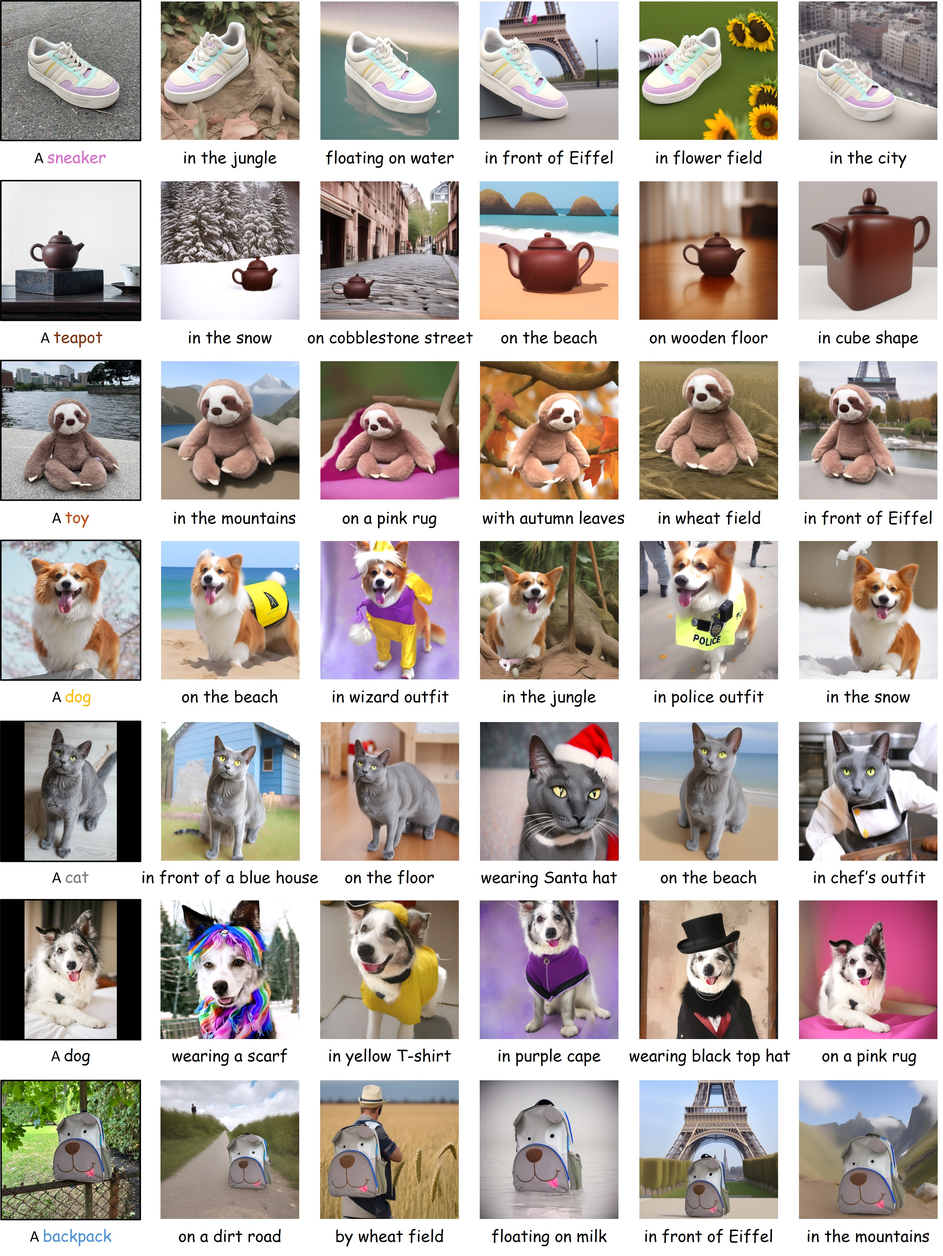
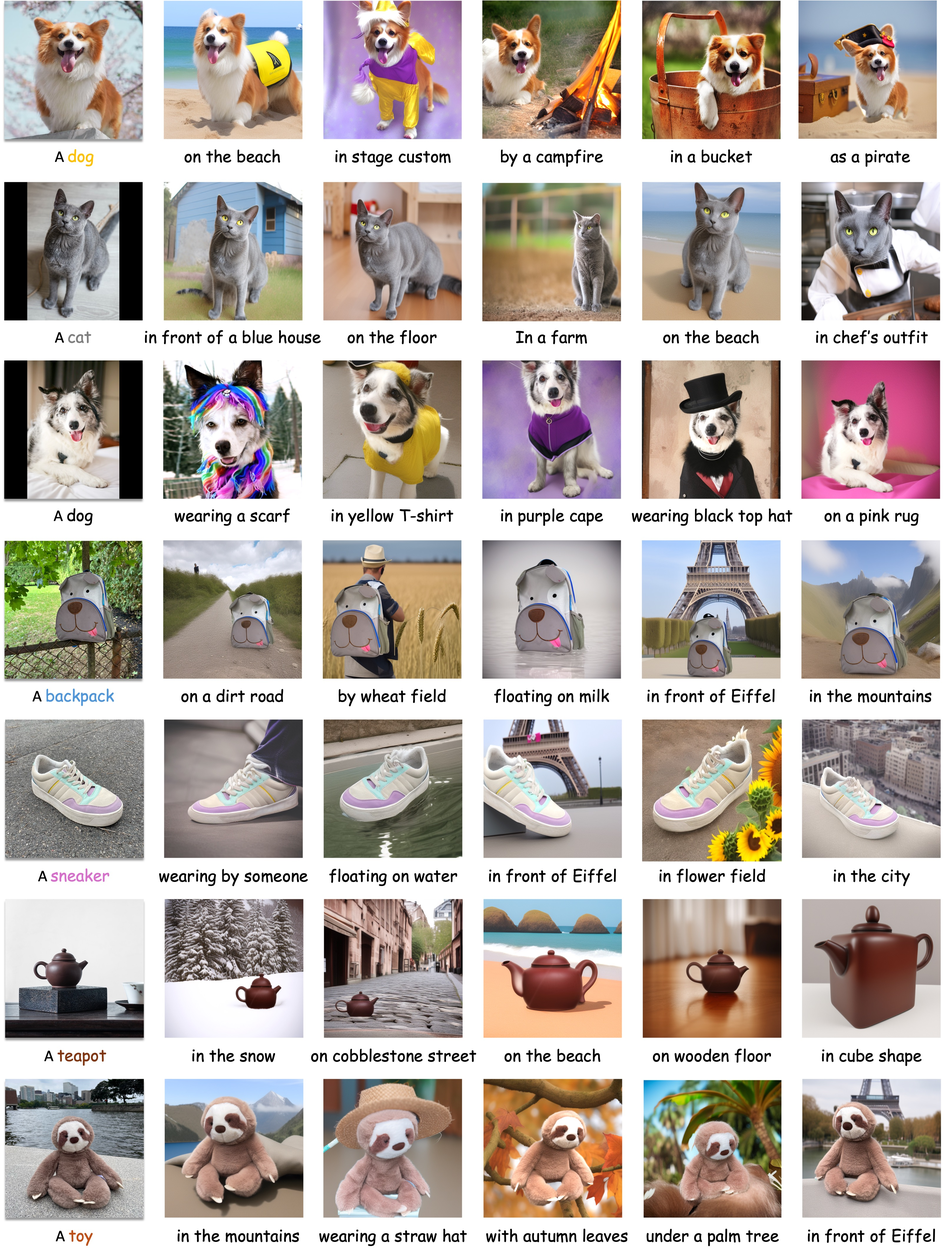
Updates

diff --git a/pages/EZIGen/index.html b/pages/EZIGen/index.html
@@ -3,7 +3,7 @@
 <head>
   <meta charset="utf-8">
   <meta name="description"
-        content="EZIGen: Enhancing zero-shot subject-driven image generation with precise encoding and decoupled guidance">
+        content="EZIGen: Enhancing zero-shot personalized image generation with precise encoding and decoupled guidance">
   <meta name="keywords" content="Nerfies, D-NeRF, NeRF">
   <meta name="viewport" content="width=device-width, initial-scale=1">
   <title>EZIGen Demo</title>
@@ -69,7 +69,7 @@
     <div class="container is-max-desktop">
       <div class="columns is-centered">
         <div class="column has-text-centered">
-          <h2 class="title is-2 publication-title" style="margin-top: 0; margin-bottom: 0; margin-left: 0; margin-right: 0">EZIGen: Enhancing zero-shot subject-driven image generation with precise subject encoding and decoupled guidance</h2>
+          <h2 class="title is-2 publication-title" style="margin-top: 0; margin-bottom: 0; margin-left: 0; margin-right: 0">EZIGen: Enhancing zero-shot personalized image generation with precise subject encoding and decoupled guidance</h2>
           <h2 class="title is-2 publication-title" style="margin-top: 0"></h2>
           <h2 class="title is-4 publication-title" style="color:#6e6e6e;margin-top: 2; margin-bottom: 2">arXiv preprint</h2>
 
@@ -121,7 +121,7 @@
                   <span class="icon">
                       <svg class="svg-inline--fa fa-github fa-w-16 fa-lg" aria-hidden="true" focusable="false" data-prefix="fab" data-icon="github" role="img" xmlns="http://www.w3.org/2000/svg" viewBox="0 0 496 512" data-fa-i2svg=""><path fill="currentColor" d="M165.9 397.4c0 2-2.3 3.6-5.2 3.6-3.3.3-5.6-1.3-5.6-3.6 0-2 2.3-3.6 5.2-3.6 3-.3 5.6 1.3 5.6 3.6zm-31.1-4.5c-.7 2 1.3 4.3 4.3 4.9 2.6 1 5.6 0 6.2-2s-1.3-4.3-4.3-5.2c-2.6-.7-5.5.3-6.2 2.3zm44.2-1.7c-2.9.7-4.9 2.6-4.6 4.9.3 2 2.9 3.3 5.9 2.6 2.9-.7 4.9-2.6 4.6-4.6-.3-1.9-3-3.2-5.9-2.9zM244.8 8C106.1 8 0 113.3 0 252c0 110.9 69.8 205.8 169.5 239.2 12.8 2.3 17.3-5.6 17.3-12.1 0-6.2-.3-40.4-.3-61.4 0 0-70 15-84.7-29.8 0 0-11.4-29.1-27.8-36.6 0 0-22.9-15.7 1.6-15.4 0 0 24.9 2 38.6 25.8 21.9 38.6 58.6 27.5 72.9 20.9 2.3-16 8.8-27.1 16-33.7-55.9-6.2-112.3-14.3-112.3-110.5 0-27.5 7.6-41.3 23.6-58.9-2.6-6.5-11.1-33.3 2.6-67.9 20.9-6.5 69 27 69 27 20-5.6 41.5-8.5 62.8-8.5s42.8 2.9 62.8 8.5c0 0 48.1-33.6 69-27 13.7 34.7 5.2 61.4 2.6 67.9 16 17.7 25.8 31.5 25.8 58.9 0 96.5-58.9 104.2-114.8 110.5 9.2 7.9 17 22.9 17 46.4 0 33.7-.3 75.4-.3 83.6 0 6.5 4.6 14.4 17.3 12.1C428.2 457.8 496 362.9 496 252 496 113.3 383.5 8 244.8 8zM97.2 352.9c-1.3 1-1 3.3.7 5.2 1.6 1.6 3.9 2.3 5.2 1 1.3-1 1-3.3-.7-5.2-1.6-1.6-3.9-2.3-5.2-1zm-10.8-8.1c-.7 1.3.3 2.9 2.3 3.9 1.6 1 3.6.7 4.3-.7.7-1.3-.3-2.9-2.3-3.9-2-.6-3.6-.3-4.3.7zm32.4 35.6c-1.6 1.3-1 4.3 1.3 6.2 2.3 2.3 5.2 2.6 6.5 1 1.3-1.3.7-4.3-1.3-6.2-2.2-2.3-5.2-2.6-6.5-1zm-11.4-14.7c-1.6 1-1.6 3.6 0 5.9 1.6 2.3 4.3 3.3 5.6 2.3 1.6-1.3 1.6-3.9 0-6.2-1.4-2.3-4-3.3-5.6-2z"></path></svg>
                   </span>
-                  <span>GitHub Repo (<strong style="color: red;">New!</strong>)</span>
+                  <span>Code (<strong style="color: red;">Training code released!</strong>)</span>
                   </a>
               </span>
             </div>
@@ -188,7 +188,7 @@
       <div class="column is-four-fifths">
         <h2 class="title is-3">Abstract</h2>
         <div class="content has-text-justified">
-          Zero-shot subject-driven image generation aims to produce images that incorporate a subject from a given example image. The challenge lies in preserving the subject's identity while aligning with the text prompt that often requires modifying certain aspects of the subject's appearance. Despite advancements in diffusion model based methods, existing approaches still struggle to balance identity preservation with text prompt alignment. In this study, we conducted an in-depth investigation into this issue and uncovered key insights for achieving effective identity preservation while maintaining a strong balance. Our key findings include: (1) the design of the subject image encoder significantly impacts identity preservation quality, and (2) separating text and subject guidance is crucial for both text alignment and identity preservation. Building on these insights, we introduce a new approach called EZIGen, which employs two main strategies: a carefully crafted subject image Encoder based on the pretrained UNet of the Stable Diffusion model to ensure high-quality identity transfer, following a process that decouples the guidance stages and iteratively refines the initial image layout. Through these strategies, EZIGen achieves state-of-the-art results on multiple subject-driven benchmarks with a unified model and 100 times less training data. 
+          Zero-shot personalized image generation models aim to produce images that align with both a given text prompt and subject image, requiring the model to effectively incorporate both sources of guidance. However, existing methods often struggle to capture fine-grained subject details and frequently prioritize one form of guidance over the other, resulting in suboptimal subject encoding and an imbalance in the generated images. In this study, we uncover key insights into achieving high-quality balances on subject identity preservation and text-following, notably that 1) the design of the subject image encoder critically influences subject identity preservation, and 2) the text and subject guidance should take effect at different denoising stages. Building on these insights, we introduce a new approach, EZIGen, that employs two main components: a carefully crafted subject image encoder based on the pretrained UNet of the Stable Diffusion model, following a process that balances the two guidances by separating their dominance stage and revisiting certain time steps to bootstrap subject transfer quality. Through these two components, EZIGen achieves state-of-the-art results on multiple personalized generation benchmarks with a unified model and 100 times less training data.
           </p>
         </div>
       </div>
@@ -206,7 +206,7 @@
           <h2 class="title is-3">Method</h2>
         </div>
         <div style="text-align: center;">
-          <img src="static/images/main3.png"
+          <img src="static/images/main4.jpg"
           class="body"
           alt="Interpolate start reference image. " width="100%"/>
         </div>
@@ -228,7 +228,7 @@
         <h2 class="title is-3">Comparisons</h2>
       </div>
       
-      <p>We conduct in-depth comparisons of our method against previous literatures on various tasks: namely subject-driven image generation, subject-driven image editing and human content generation task.</p>
+      <p>We conduct in-depth comparisons of our method against previous literatures on various tasks: namely personalized image generation, personalized image editing and human content generation task.</p>
     </div>
     </div>
     </div>
@@ -243,7 +243,7 @@
         <div class="content">
           <h3 class="title is-4">Results on DreamBench dataset </h3>
           <div style="text-align: center;">
-            <img src="static/images/qualitative_comparison.jpg"
+            <img src="static/images/qualitative_comparison.png"
             class="body"
             alt="Interpolate start reference image. " width="100%"/>
           </div>
@@ -332,21 +332,21 @@
       <div class="column">
         <div class="content">
           <div style="text-align: center;"><h2 class="title is-3">More Visualization Results</h2></div>
-          <h3 class="title is-4">Subject-Driven Generation</h2>
+          <h3 class="title is-4">Personalized Image Generation</h2>
             <img src="static/images/more_results.jpg"
             class="body"
             alt="Interpolate start reference image." width="100%"/>
 
-          <h3 class="title is-4">Subject-Driven Editing</h2>
+          <h3 class="title is-4">Personalized Image Editing</h2>
             <img src="static/images/more_edit.jpg"
             class="body"
             alt="Interpolate start reference image." width="100%"/>
          
 
-          <h3 class="title is-4">Human Content Generation</h2>
+          <!-- <h3 class="title is-4">Human Content Generation</h2>
             <img src="static/images/more_human.jpg"
             class="body"
-            alt="Interpolate start reference image." width="100%"/>
+            alt="Interpolate start reference image." width="100%"/> -->
 
           <h3 class="title is-4">Subject Interpolation</h2>
             <img src="static/images/interpolation.jpg"

diff --git a/index.html b/index.html
@@ -30,7 +30,7 @@
                   <p>I am a second-year Ph.D. student in Computer Science at the <a
                       href="https://www.adelaide.edu.au/aiml/"> Australian Institute for Machine Learning (AIML),
                       University of Adelaide</a>, and I am fortunate to be supervised by <a
-                      href="https://scholar.google.com/citations?user=Y2xu62UAAAAJ&hl=en">Prof. Lingqiao Liu</a>. Before that, I completed my Master's degree in Machine Learning and Computer Vision from the <a href="https://www.anu.edu.au/">Australian National University</a>where I had the opportunity to work on multi-camera detection research under the guidance of <a href="https://scholar.google.com/citations?hl=en&user=vNHqr3oAAAAJ&view_op=list_works&sortby=pubdate">Prof. Liang Zheng</a>.
+                      href="https://scholar.google.com/citations?user=Y2xu62UAAAAJ&hl=en">Prof. Lingqiao Liu</a>. Before that, I completed my Master's degree in Machine Learning and Computer Vision from the <a href="https://www.anu.edu.au/">Australian National University</a> where I had the opportunity to work on multi-camera detection research under the guidance of <a href="https://scholar.google.com/citations?hl=en&user=vNHqr3oAAAAJ&view_op=list_works&sortby=pubdate">Prof. Liang Zheng</a>.
                   </p>
                   
                   <p>
@@ -51,9 +51,9 @@
                   </p>
                 </td>
                 <td style="padding:2.5%;width:40%;max-width:40%">
-                  <a href="images/dzc.jpg"><img
+                  <a href="images/dzc.png"><img
                       style="width:100%;max-width:100%;object-fit: cover; border-radius: 50%;" alt="profile photo"
-                      src="images/dzc.jpg" class="hoverZoomLink"></a>
+                      src="images/dzc.png" class="hoverZoomLink"></a>
                 </td>
               </tr>
             </tbody>
@@ -79,10 +79,10 @@
                   
                   <tr></tr>
                     <td style="padding:20px;width:25%;vertical-align:middle">
-                      <img src="images\first4.png" alt="prl" width="240">
+                      <img src="images\first5.jpg" alt="prl" width="240">
                     </td>
                     <td width="75%" valign="middle">
-                      <papertitle>EZIGen: Enhancing zero-shot subject-driven image generation with precise subject encoding and decoupled guidance</papertitle>
+                      <papertitle>EZIGen: Enhancing zero-shot persoanlized image generation with precise subject encoding and decoupled guidance</papertitle>
                       <br>
                       <strong>Zicheng Duan</strong>,
                       <a href="https://scholar.google.com/citations?user=uOii3uEAAAAJ&hl=zh-CN">Yuxuan Ding</a>,
@@ -91,7 +91,7 @@
                       <a href="https://www.linkedin.com/in/ethan-smith-0b4937196/">Ethan Smith</a>,
                       <a href="https://scholar.google.com/citations?hl=zh-CN&user=Y2xu62UAAAAJ">Lingqiao Liu</a>
                       <br> arXiv preprint 2024
-                      <br>[<a href="pages/EZIGen/index.html">Demo Page</a>/<a href="http://arxiv.org/abs/2409.08091">Paper</a>/<a href="https://github.com/ZichengDuan/EZIGen">GitHub Repo</a>]
+                      <br>[<a href="pages/EZIGen/index.html">Demo Page</a>/<a href="http://arxiv.org/abs/2409.08091">Paper</a>/<a href="https://github.com/ZichengDuan/EZIGen">Code</a>]
                       <!-- <p> Proposed a multiview pedestrian detection pipeline to figure out projection distortion and introduce appearance feature during multiview aggregation.</p> -->
                     </td>
                   </tr>
@@ -108,8 +108,7 @@
                       <a href="https://scholar.google.com/citations?user=vNHqr3oAAAAJ&hl=en">Liang Zheng</a>,
                       <a href="https://scholar.google.com/citations?hl=zh-CN&user=Zspmw8wmcUgC">Chuong-Nguyen</a>
                       <br> ACCV 2024
-                      <br>[<a href="https://arxiv.org/abs/2207.02013">Paper</a>]
-                      <!-- <p> Proposed a multiview pedestrian detection pipeline to figure out projection distortion and introduce appearance feature during multiview aggregation.</p> -->
+                      <br>[<a href="https://arxiv.org/abs/2207.02013">Paper</a>/<a href="https://github.com/Jiahao-Ma/MvCHM">Code</a>]
                     </td>
                   </tr>
 
@@ -127,9 +126,8 @@
                       <a href="https://scholar.google.com/citations?user=vNHqr3oAAAAJ&hl=en">Liang Zheng</a>,
                       <a href="https://scholar.google.com/citations?hl=zh-CN&user=Zspmw8wmcUgC">Chuong-Nguyen</a>
                       <br>DICTA 2024
-                      <br> [<a href="https://github.com/Robert-Mar/VFA">Code</a> / <a
-                        href="https://github.com/Robert-Mar/MultiviewC">Dataset</a> / <a
-                        href="https://arxiv.org/abs/2112.03471">Paper</a>]
+                      <br> [ <a href="https://arxiv.org/abs/2112.03471">Paper</a>/<a href="https://github.com/Robert-Mar/VFA">Code</a>/<a
+                        href="https://github.com/Robert-Mar/MultiviewC">Dataset</a>]
                     </td>
                   </tr>
 
